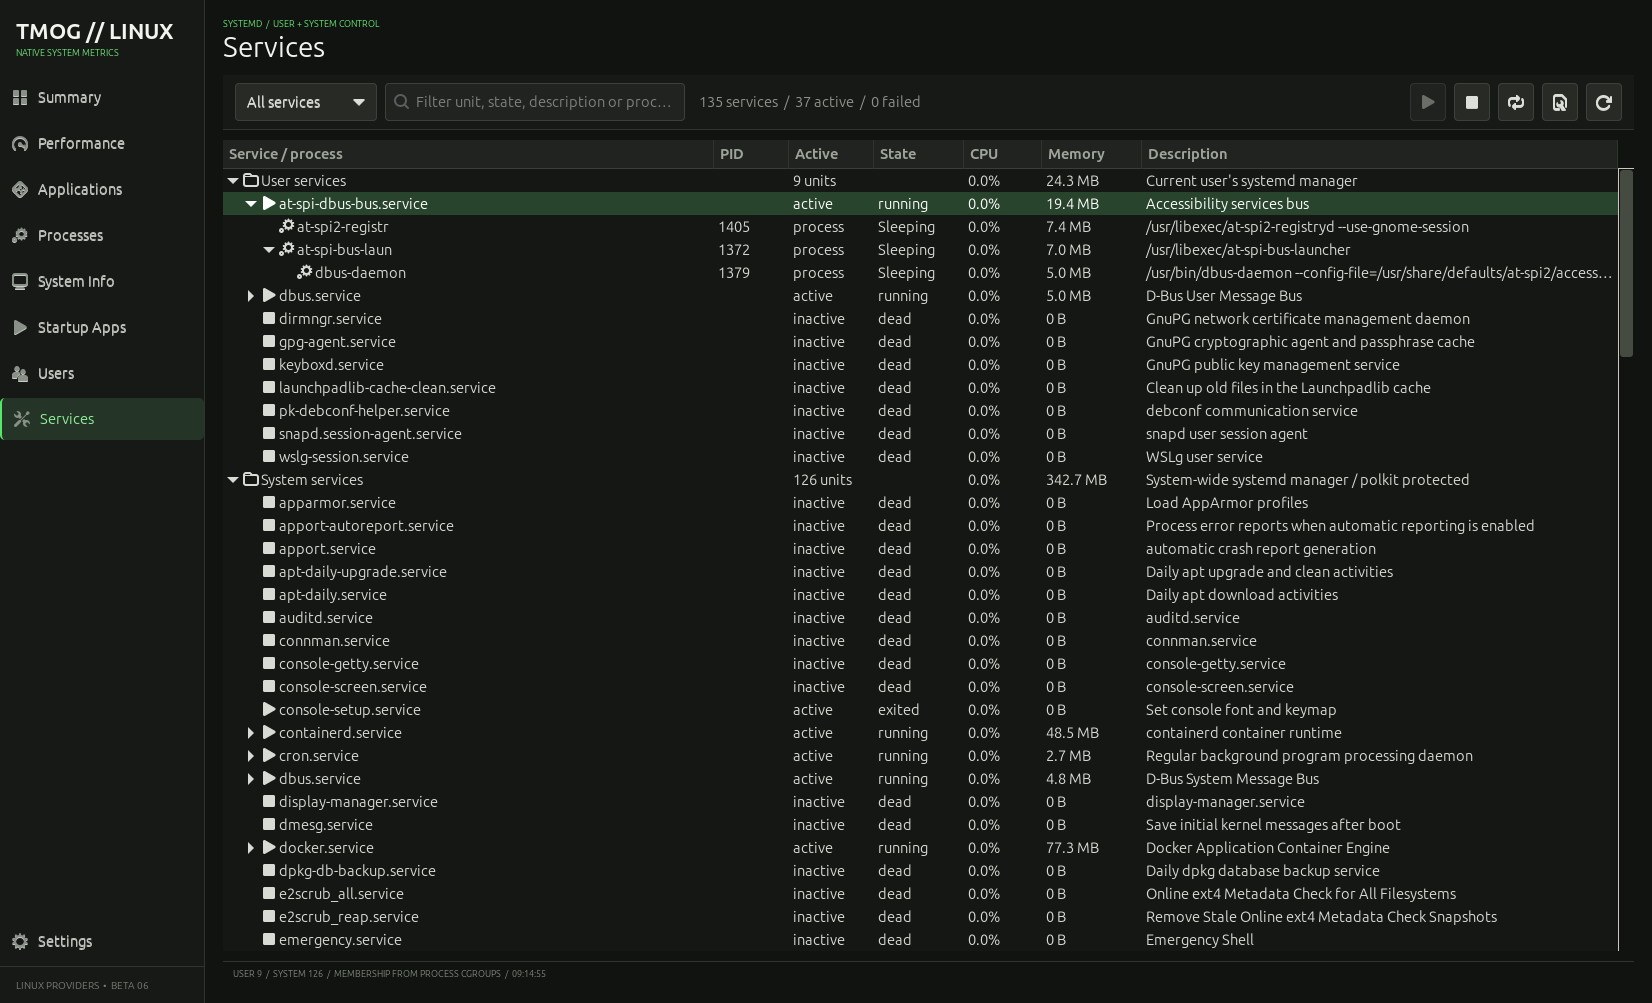
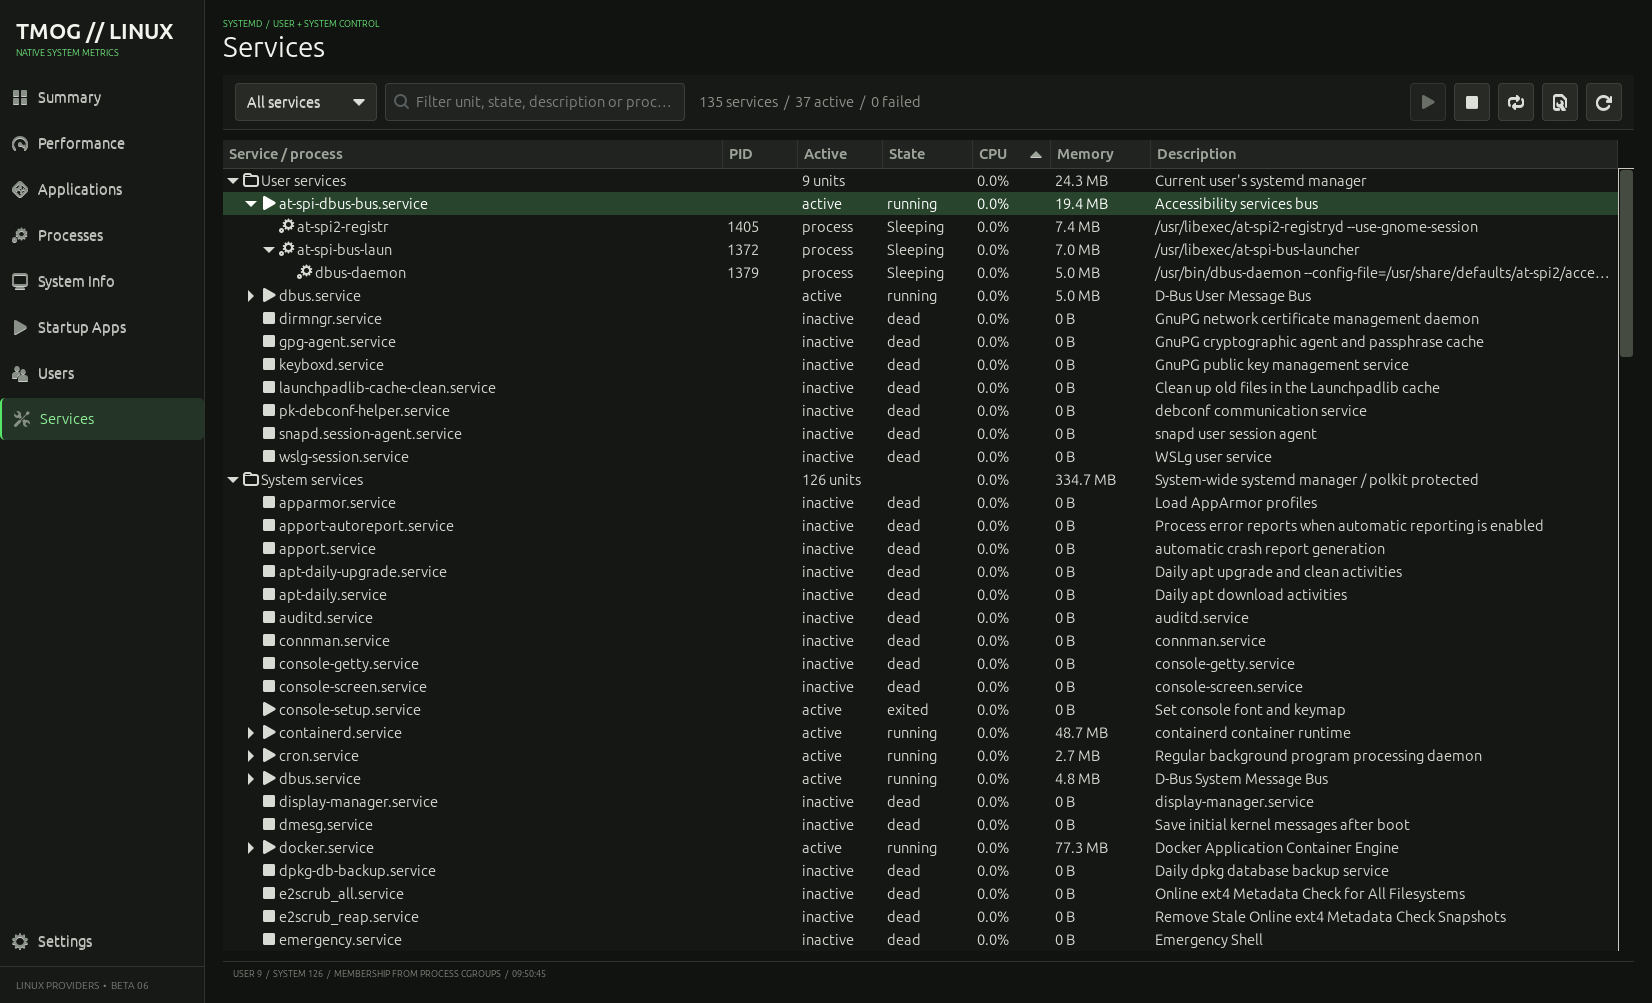
Release beta06.4-r13: add hierarchy-preserving application and service sorting

Changed region(s): [[0.4322, 0.1545, 0.957, 0.9581], [0.4631, 0.1545, 0.5248, 0.1854]]

diff --git a/tmog_linux/app.py b/tmog_linux/app.py
@@ -1644,6 +1644,7 @@ class TmogWindow(Gtk.Window):
         name_column.add_attribute(text_renderer, "text", 0)
         name_column.set_expand(True)
         name_column.set_resizable(True)
+        name_column.set_sort_column_id(0)
         self.application_view.append_column(name_column)
         add_text_column(self.application_view, "PID", 1, width=80)
         self._add_formatted_column(self.application_view, "CPU", 2, lambda value: f"{value:.1f}%", 80)
@@ -1652,6 +1653,8 @@ class TmogWindow(Gtk.Window):
         add_text_column(self.application_view, "Threads", 5, width=75)
         self._add_formatted_column(self.application_view, "Read", 6, format_bytes, 90)
         self._add_formatted_column(self.application_view, "Write", 7, format_bytes, 90)
+        for index in range(8):
+            self.application_store.set_sort_func(index, self._compare_tree_rows, index)
         self.application_scroller = scrollable(self.application_view)
         self.application_scroller.set_overlay_scrolling(False)
         self.application_scroller.get_style_context().add_class("stable-scroll")
@@ -1960,6 +1963,7 @@ class TmogWindow(Gtk.Window):
         unit_column.add_attribute(text_renderer, "text", 0)
         unit_column.set_expand(True)
         unit_column.set_resizable(True)
+        unit_column.set_sort_column_id(0)
         self.service_view.append_column(unit_column)
         add_text_column(self.service_view, "PID", 1, width=75)
         add_text_column(self.service_view, "Active", 2, width=85)
@@ -1967,8 +1971,8 @@ class TmogWindow(Gtk.Window):
         self._add_formatted_column(self.service_view, "CPU", 4, lambda value: f"{value:.1f}%", 78)
         self._add_formatted_column(self.service_view, "Memory", 5, format_bytes, 100)
         add_text_column(self.service_view, "Description", 6, expand=True)
-        for column in self.service_view.get_columns():
-            column.set_clickable(False)
+        for index in range(7):
+            self.service_store.set_sort_func(index, self._compare_service_tree_rows, index)
         self.service_scroller = scrollable(self.service_view)
         self.service_scroller.set_overlay_scrolling(False)
         self.service_scroller.get_style_context().add_class("stable-scroll")
@@ -2924,6 +2928,58 @@ class TmogWindow(Gtk.Window):
             items.sort(key=lambda item: (item.cpu_percent, item.memory_bytes), reverse=True)
         return roots, children
 
+    @staticmethod
+    def _compare_tree_rows(
+        model: Gtk.TreeModel,
+        left: Gtk.TreeIter,
+        right: Gtk.TreeIter,
+        column: int,
+    ) -> int:
+        left_value = model.get_value(left, column)
+        right_value = model.get_value(right, column)
+        if column == 1:
+            left_value = int(left_value) if str(left_value).isdigit() else -1
+            right_value = int(right_value) if str(right_value).isdigit() else -1
+        elif isinstance(left_value, str) and isinstance(right_value, str):
+            left_value = left_value.casefold()
+            right_value = right_value.casefold()
+        return (left_value > right_value) - (left_value < right_value)
+
+    @classmethod
+    def _compare_service_tree_rows(
+        cls,
+        model: Gtk.TreeModel,
+        left: Gtk.TreeIter,
+        right: Gtk.TreeIter,
+        column: int,
+    ) -> int:
+        left_key = model.get_value(left, 9)
+        right_key = model.get_value(right, 9)
+        if left_key.startswith("scope:") and right_key.startswith("scope:"):
+            scope_order = {"scope:user": 0, "scope:system": 1}
+            result = (scope_order[left_key] > scope_order[right_key]) - (
+                scope_order[left_key] < scope_order[right_key]
+            )
+            _sort_column, sort_order = model.get_sort_column_id()
+            return -result if sort_order == Gtk.SortType.DESCENDING else result
+        return cls._compare_tree_rows(model, left, right, column)
+
+    @staticmethod
+    def _tree_paths_by_key(model: Gtk.TreeModel, key_column: int) -> dict[str, Gtk.TreePath]:
+        paths: dict[str, Gtk.TreePath] = {}
+
+        def remember_path(
+            tree_model: Gtk.TreeModel,
+            path: Gtk.TreePath,
+            tree_iter: Gtk.TreeIter,
+            _data=None,
+        ) -> bool:
+            paths[tree_model.get_value(tree_iter, key_column)] = path.copy()
+            return False
+
+        model.foreach(remember_path, None)
+        return paths
+
     def _expanded_application_keys(self) -> set[str]:
         expanded: set[str] = set()
 
@@ -2943,7 +2999,6 @@ class TmogWindow(Gtk.Window):
         query = self.application_search.get_text().strip().casefold()
         groups = self._application_groups(processes)
         self.application_store.clear()
-        paths: dict[str, Gtk.TreePath] = {}
         visible_processes = 0
 
         for group in groups:
@@ -2978,7 +3033,6 @@ class TmogWindow(Gtk.Window):
                     group_key,
                 ),
             )
-            paths[group_key] = self.application_store.get_path(group_iter)
             roots, children = self._process_tree(group.processes)
             visited: set[int] = set()
 
@@ -3004,7 +3058,6 @@ class TmogWindow(Gtk.Window):
                         process_key,
                     ),
                 )
-                paths[process_key] = self.application_store.get_path(process_iter)
                 for child in children.get(process.pid, []):
                     append_process(child, process_iter)
 
@@ -3013,10 +3066,13 @@ class TmogWindow(Gtk.Window):
             for process in group.processes:
                 append_process(process, group_iter)
 
-        for key in expanded_keys:
-            path = paths.get(key)
-            if path is not None:
-                self.application_view.expand_row(path, False)
+        paths = self._tree_paths_by_key(self.application_store, 11)
+        expanded_paths = sorted(
+            (paths[key] for key in expanded_keys if key in paths),
+            key=lambda path: path.get_depth(),
+        )
+        for path in expanded_paths:
+            self.application_view.expand_row(path, False)
         selected_path = paths.get(selected_key)
         if selected_path is not None:
             self.application_view.get_selection().select_path(selected_path)
@@ -3749,7 +3805,6 @@ class TmogWindow(Gtk.Window):
             filtered.append(service)
 
         self.service_store.clear()
-        paths: dict[str, Gtk.TreePath] = {}
         grouped = {
             "user": [service for service in filtered if service.scope == "user"],
             "system": [service for service in filtered if service.scope == "system"],
@@ -3783,7 +3838,6 @@ class TmogWindow(Gtk.Window):
                     "folder-symbolic",
                 ),
             )
-            paths[scope_key] = self.service_store.get_path(scope_iter)
 
             for service in scoped_services:
                 members = process_map.get((service.scope, service.unit), [])
@@ -3811,7 +3865,6 @@ class TmogWindow(Gtk.Window):
                         service_icon,
                     ),
                 )
-                paths[service_key] = self.service_store.get_path(service_iter)
                 roots, children = self._process_tree(members)
                 visited: set[int] = set()
 
@@ -3836,7 +3889,6 @@ class TmogWindow(Gtk.Window):
                             "system-run-symbolic",
                         ),
                     )
-                    paths[process_key] = self.service_store.get_path(process_iter)
                     for child in children.get(process.pid, []):
                         append_process(child, process_iter)
 
@@ -3845,13 +3897,16 @@ class TmogWindow(Gtk.Window):
                 for process in members:
                     append_process(process, service_iter)
 
+        paths = self._tree_paths_by_key(self.service_store, 9)
         if not self._service_initial_render_done:
             expanded_keys.update(key for key in paths if key.startswith("scope:"))
             self._service_initial_render_done = True
-        for key in expanded_keys:
-            path = paths.get(key)
-            if path is not None:
-                self.service_view.expand_row(path, False)
+        expanded_paths = sorted(
+            (paths[key] for key in expanded_keys if key in paths),
+            key=lambda path: path.get_depth(),
+        )
+        for path in expanded_paths:
+            self.service_view.expand_row(path, False)
         selected_path = paths.get(selected_key)
         if selected_path is not None:
             self.service_view.get_selection().select_path(selected_path)

diff --git a/tools/capture_ui.py b/tools/capture_ui.py
@@ -330,6 +330,15 @@ def main() -> int:
     def prepare_hierarchy_capture() -> bool:
         visible = window.stack.get_visible_child_name()
         if visible == "applications":
+            application_columns = window.application_view.get_columns()
+            if not all(column.get_clickable() for column in application_columns):
+                raise RuntimeError("Applications contains a non-sortable column")
+            application_columns[0].clicked()
+            sort_column, sort_order = window.application_store.get_sort_column_id()
+            if sort_column != 0 or sort_order != Gtk.SortType.ASCENDING:
+                raise RuntimeError("Applications name sorting did not activate")
+            window._render_applications(window.snapshot.processes)
+
             def subtree_shape(tree_iter: Gtk.TreeIter) -> tuple[int, int]:
                 child = window.application_store.iter_children(tree_iter)
                 descendants = 0
@@ -356,13 +365,34 @@ def main() -> int:
                 path = window.application_store.get_path(tree_iter)
                 window.application_view.expand_row(path, True)
                 window.application_view.get_selection().select_path(path)
+                selected_key = window.application_store.get_value(tree_iter, 11)
+                window._render_applications(window.snapshot.processes)
+                selected_model, selected_iter = window.application_view.get_selection().get_selected()
+                if selected_iter is None or selected_model.get_value(selected_iter, 11) != selected_key:
+                    raise RuntimeError("Applications sorting refresh lost the selected application")
+                selected_path = selected_model.get_path(selected_iter)
+                if not window.application_view.row_expanded(selected_path):
+                    raise RuntimeError("Applications sorting refresh collapsed the selected application")
                 print(
                     f"application-tree: groups={window.application_store.iter_n_children(None)}, "
-                    f"selected-children={window.application_store.iter_n_children(tree_iter)}, "
-                    f"selected-depth={best_shape[0]}, selected-descendants={best_shape[1]}"
+                    f"selected-children={selected_model.iter_n_children(selected_iter)}, "
+                    f"selected-depth={best_shape[0]}, selected-descendants={best_shape[1]}, "
+                    f"sort={sort_column}/{sort_order.value_nick}"
                 )
         elif visible == "services":
+            service_columns = window.service_view.get_columns()
+            if not all(column.get_clickable() for column in service_columns):
+                raise RuntimeError("Services contains a non-sortable column")
+            service_columns[4].clicked()
+            service_columns[4].clicked()
+            sort_column, sort_order = window.service_store.get_sort_column_id()
+            if sort_column != 4 or sort_order != Gtk.SortType.DESCENDING:
+                raise RuntimeError("Services CPU descending sorting did not activate")
+            window._render_current_services()
+
             scope_iter = window.service_store.get_iter_first()
+            if scope_iter is not None and window.service_store.get_value(scope_iter, 9) != "scope:user":
+                raise RuntimeError("Services sorting moved System services ahead of User services")
             while scope_iter is not None:
                 service_iter = window.service_store.iter_children(scope_iter)
                 while service_iter is not None:
@@ -372,9 +402,18 @@ def main() -> int:
                         window.service_view.expand_row(scope_path, False)
                         window.service_view.expand_row(service_path, True)
                         window.service_view.get_selection().select_path(service_path)
+                        selected_key = window.service_store.get_value(service_iter, 9)
+                        window._render_current_services()
+                        selected_model, selected_iter = window.service_view.get_selection().get_selected()
+                        if selected_iter is None or selected_model.get_value(selected_iter, 9) != selected_key:
+                            raise RuntimeError("Services sorting refresh lost the selected service")
+                        selected_path = selected_model.get_path(selected_iter)
+                        if not window.service_view.row_expanded(selected_path):
+                            raise RuntimeError("Services sorting refresh collapsed the selected service")
                         print(
-                            f"service-tree: selected={window.service_store.get_value(service_iter, 0)}, "
-                            f"members={window.service_store.iter_n_children(service_iter)}"
+                            f"service-tree: selected={selected_model.get_value(selected_iter, 0)}, "
+                            f"members={selected_model.iter_n_children(selected_iter)}, "
+                            f"sort={sort_column}/{sort_order.value_nick}"
                         )
                         return GLib.SOURCE_REMOVE
                     service_iter = window.service_store.iter_next(service_iter)

diff --git a/README.md b/README.md
@@ -157,8 +157,9 @@ Linux 目前没有覆盖所有 NPU 的统一利用率接口。页面会区分“
 
 - 使用已安装桌面应用元数据、systemd application cgroup 和父子进程关系识别当前用户正在运行的应用，不把全部 system daemon 冒充成桌面应用。
 - 应用根节点聚合 CPU、常驻内存、Swap、线程和累计读写；展开后按照 PPID 显示真实内部进程树，单个进程仍可打开原有详情页。
+- 点击任意表头可以按应用名、PID、CPU、内存、Swap、线程或累计读写升降序排列；排序只调整同一层的兄弟节点，不会把应用与内部进程平铺到一起。
 - 工具栏和右键菜单可以结束、强制停止、暂停或恢复整个应用，也可以只操作选中的内部进程；应用组操作会逐个遵守 Linux 进程权限。
-- 每秒刷新时保留已经展开的应用、选中行和滚动位置。无法关联到 `.desktop` 文件时使用 cgroup 应用 ID 或顶层进程名，不伪造应用名称。
+- 每秒刷新时保留当前排序、已经展开的应用、选中行和滚动位置。无法关联到 `.desktop` 文件时使用 cgroup 应用 ID 或顶层进程名，不伪造应用名称。
 
 ### 11. Processes 四种视图
 
@@ -214,6 +215,7 @@ Machine identity 汇总发行版、Kernel、主机名、架构、处理器、物
 
 - 分别读取当前用户的 `systemctl --user` 与系统级 `systemctl`，按照 User services、System services、service unit、成员进程构成三层树。
 - service 行汇总其 cgroup 成员进程的 CPU 和常驻内存；展开 unit 后显示真实 PID、状态和命令，双击进程可以打开完整进程详情。
+- Service、PID、Active、State、CPU、Memory 和 Description 表头均支持升降序；User/System 作用域保持固定顺序，只在各自层级内排列 unit 与成员进程。
 - 可以按作用域、Active 或 Failed 筛选，并可搜索 unit、状态、描述和成员进程。服务 unit 通过显式刷新更新，进程资源仍随常规采样更新。
 - 支持 Start、Stop、Restart、Details 和右键菜单。用户服务使用当前用户权限；系统服务通过 systemd/polkit 授权，不调用 `sudo`，拒绝或取消授权会显示原始错误而不会报告成功。
 
